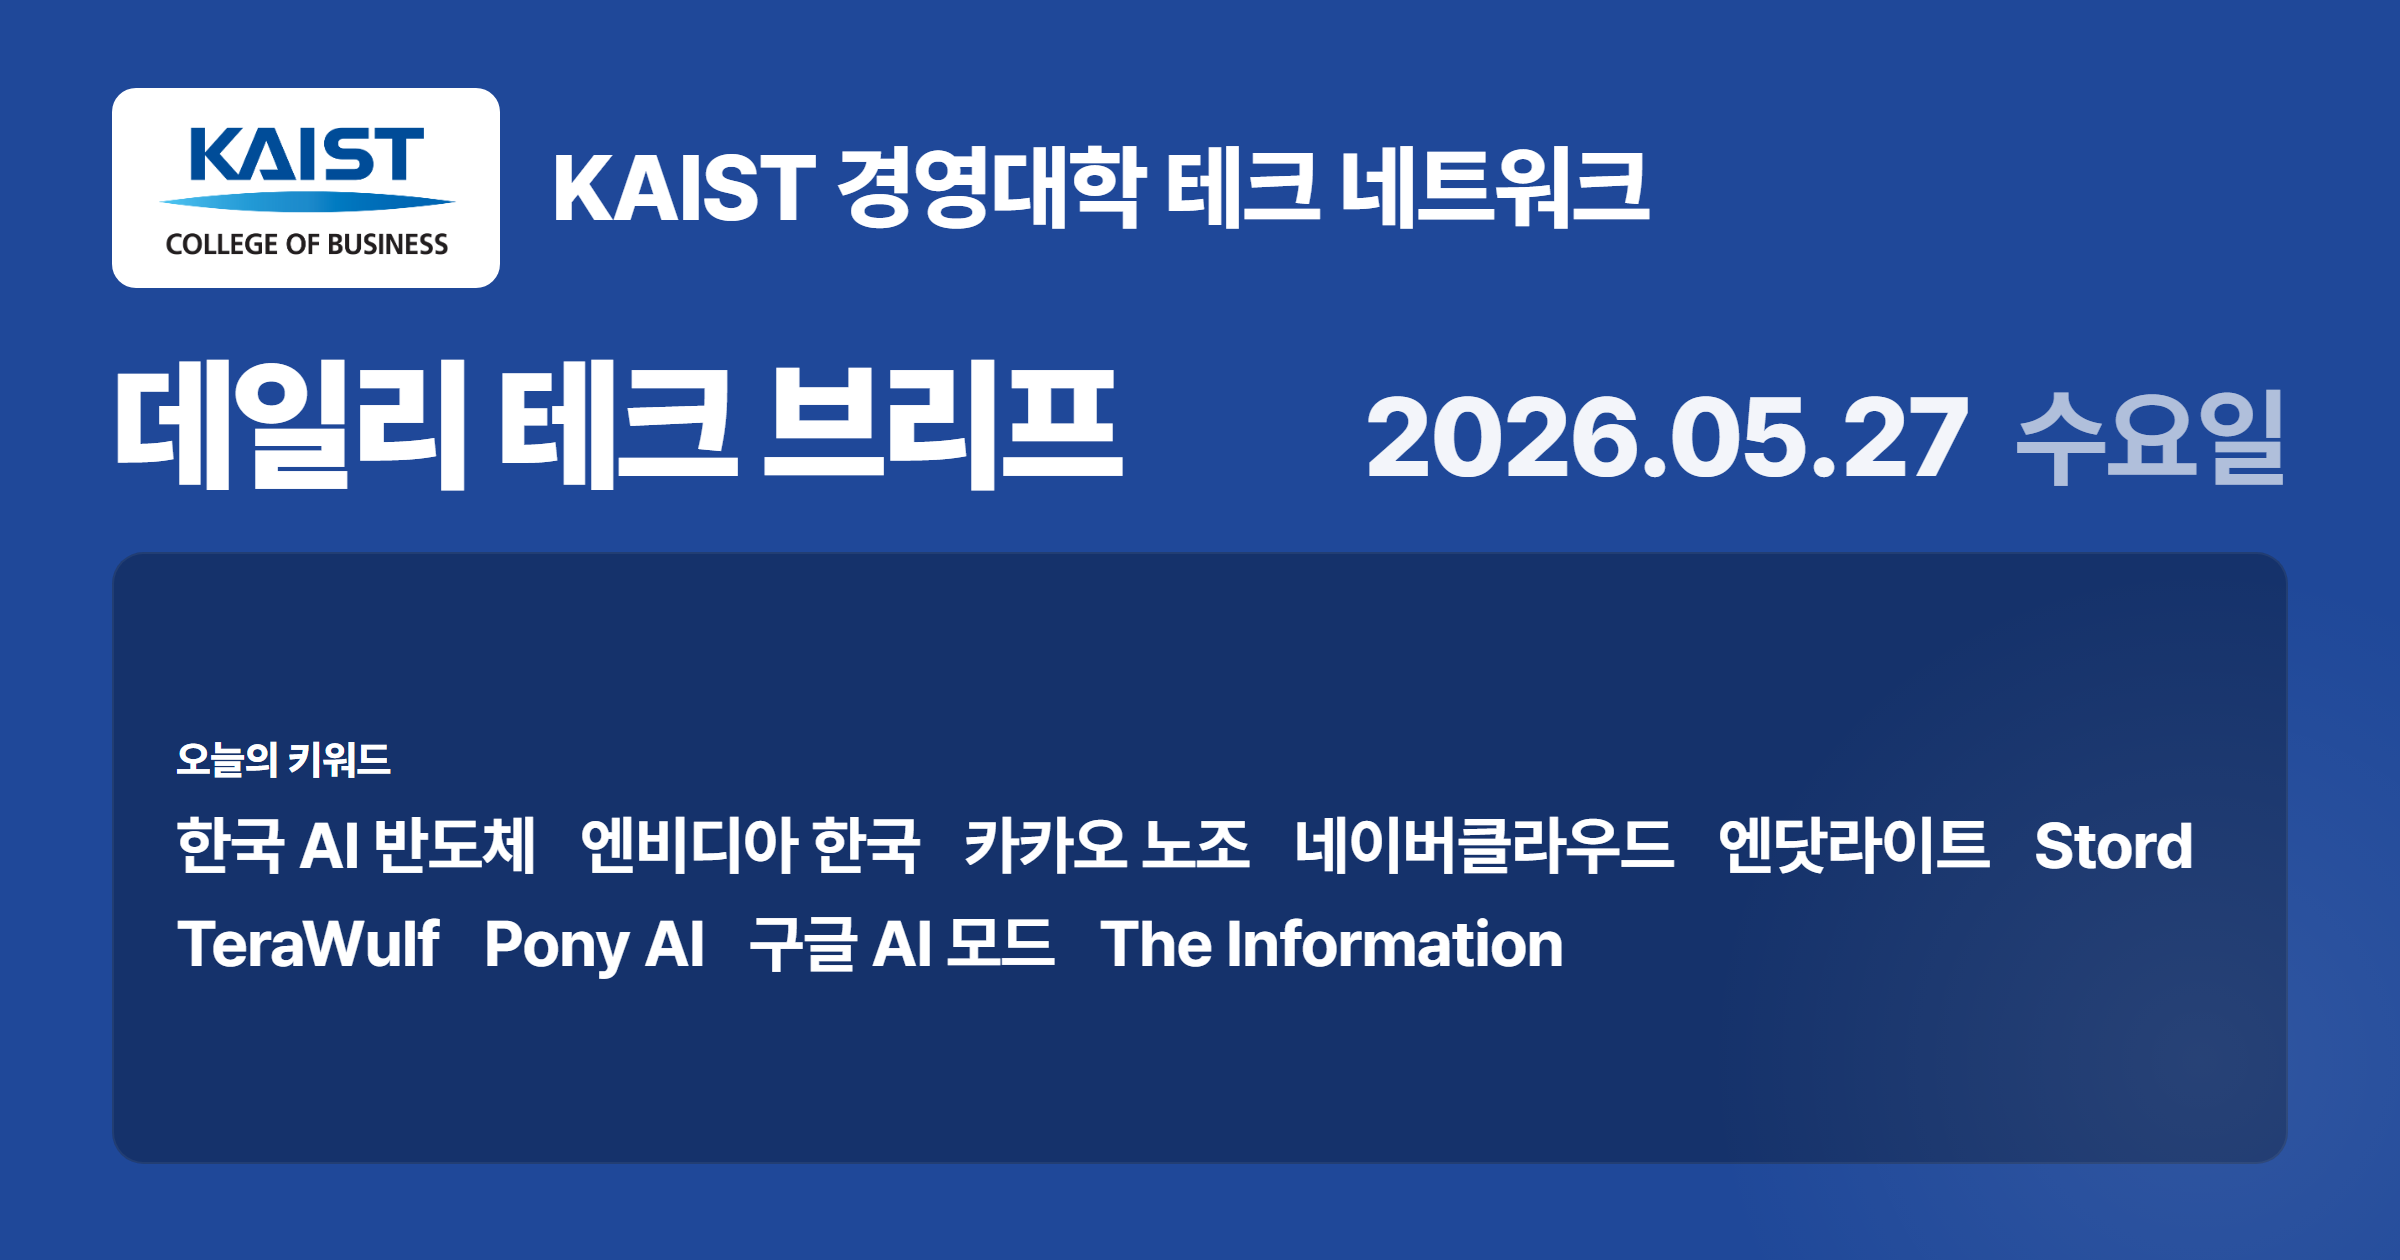
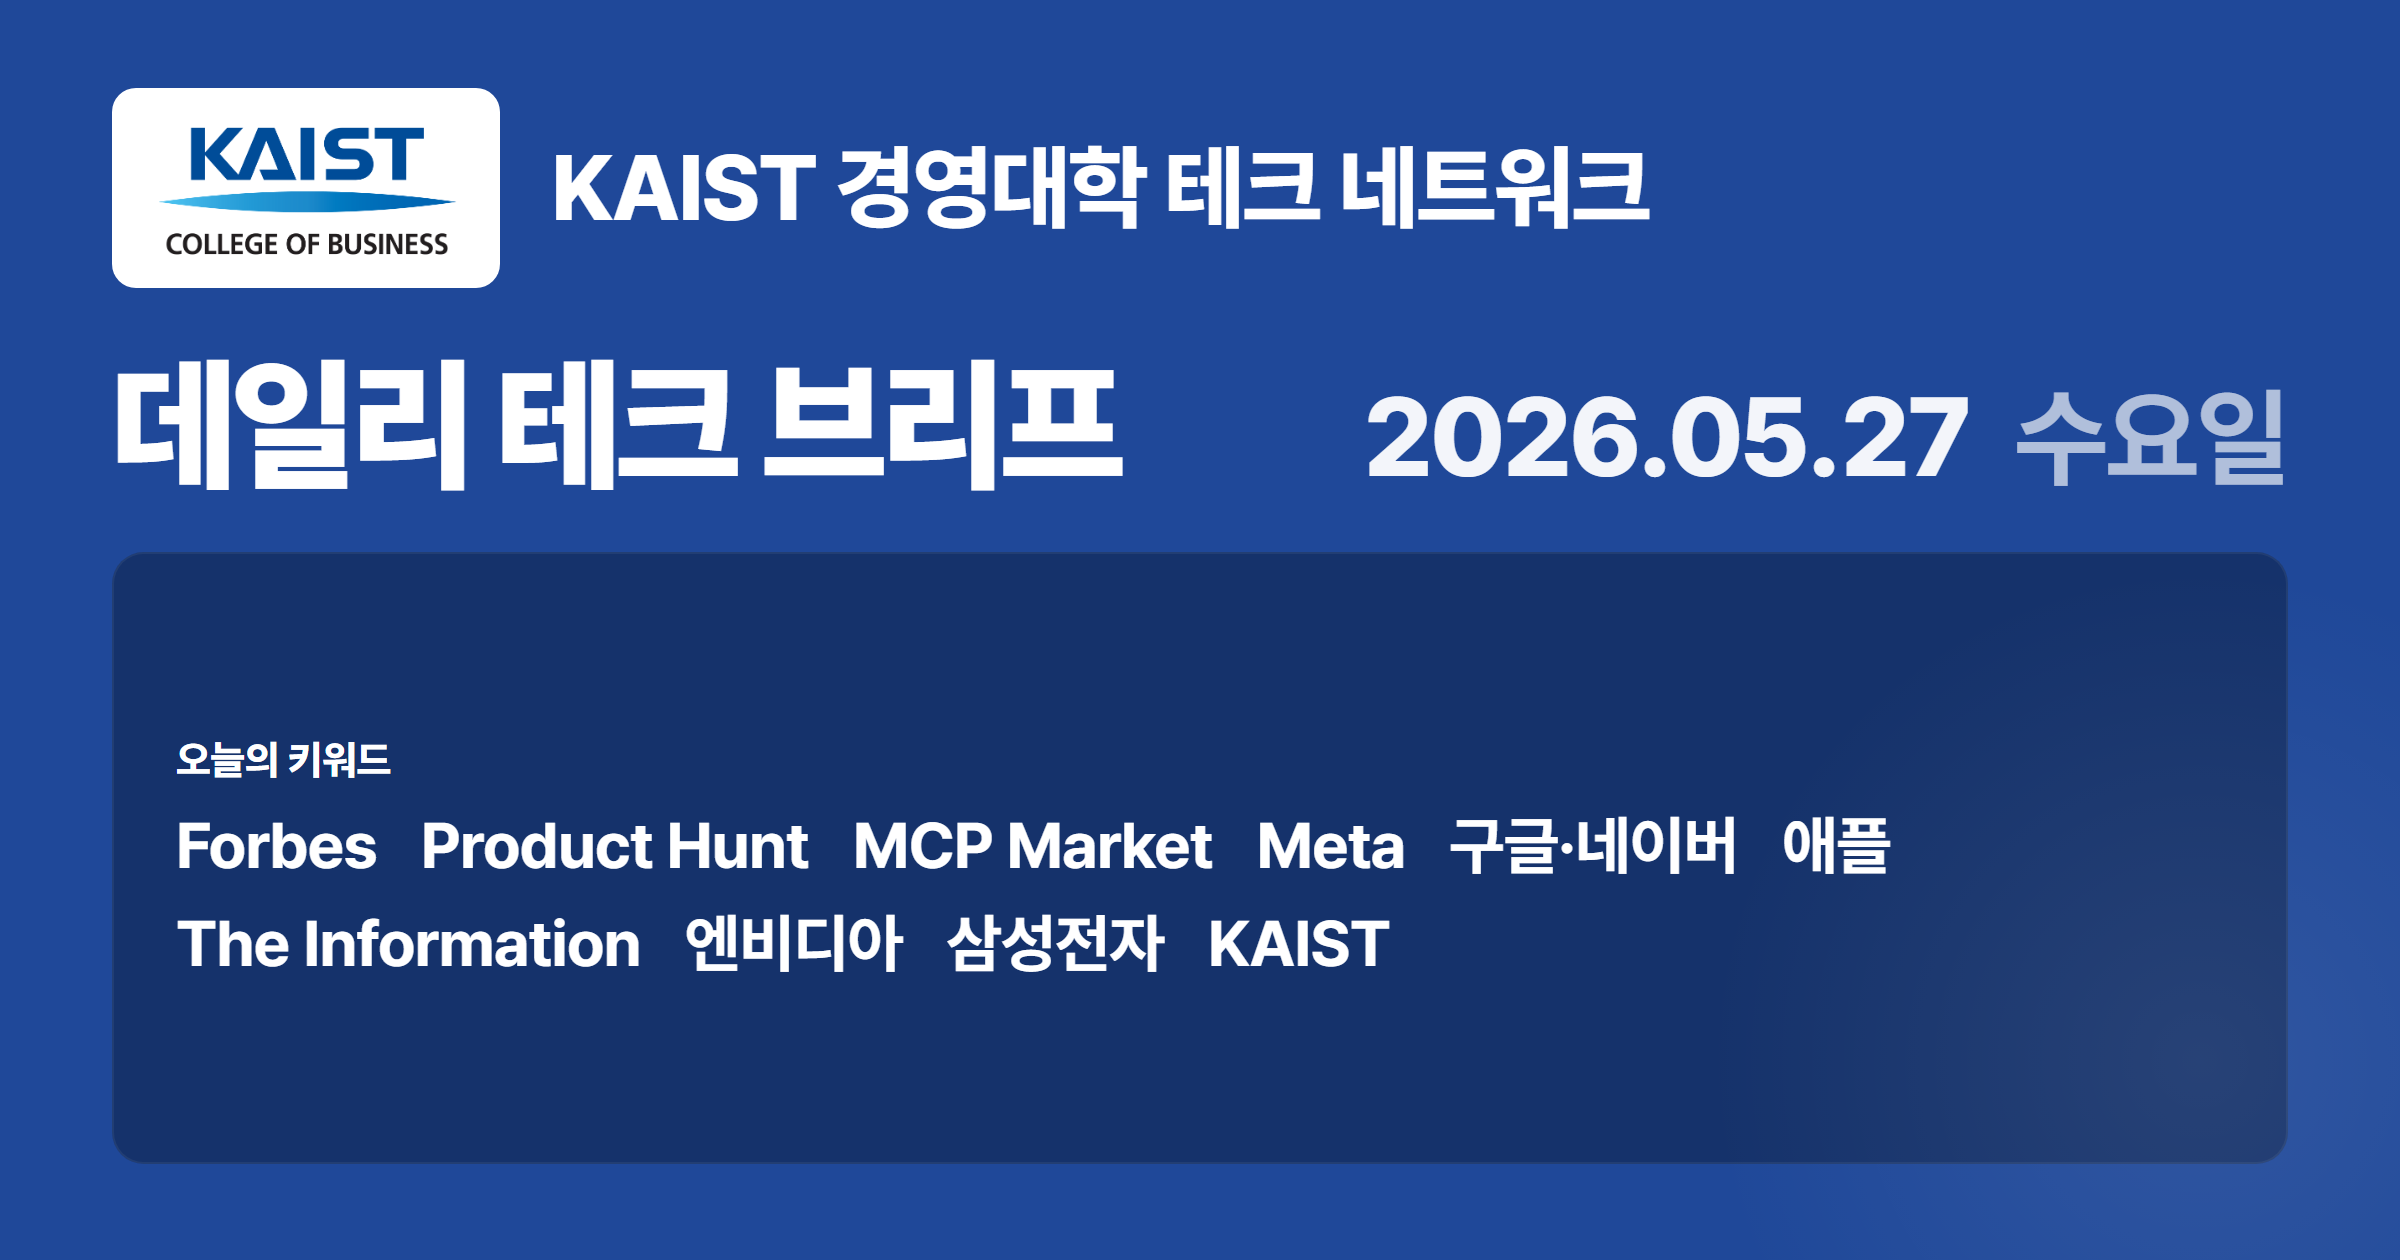
Refresh daily brief: 2026-05-27

Changed region(s): [[0.0625, 0.65, 0.9375, 0.7738]]

diff --git a/date/2026-05-27/index.html b/date/2026-05-27/index.html
@@ -7,7 +7,7 @@
 <title>데일리 테크 브리프 — 2026.05.27 수요일</title>
 <meta property="og:type" content="article">
 <meta property="og:title" content="데일리 테크 브리프 — 2026.05.27 수요일">
-<meta property="og:description" content="01 한국 AI 반도체, 코스피 8000 시나리오 부상 · 02 엔비디아, 한국 6개 그룹과 AI 동맹 예고 · 03 카카오 노조, AI 전환 속 5개 법인 쟁의">
+<meta property="og:description" content="01 Forbes, AI 코딩 도구 20~30% 비용 논쟁 · 02 Product Hunt, AI 코딩 에이전트 562개 비교 · 03 MCP Market, Claude Code 메모리 10위권 부상">
 <meta property="og:image" content="https://kaistbiztech.github.io/dailytechbrief/date/2026-05-27/og.png">
 <meta property="og:image:width" content="1080">
 <meta property="og:image:height" content="1920">
@@ -16,7 +16,7 @@
 <meta property="og:locale" content="ko_KR">
 <meta name="twitter:card" content="summary_large_image">
 <meta name="twitter:title" content="데일리 테크 브리프 — 2026.05.27 수요일">
-<meta name="twitter:description" content="01 한국 AI 반도체, 코스피 8000 시나리오 부상 · 02 엔비디아, 한국 6개 그룹과 AI 동맹 예고 · 03 카카오 노조, AI 전환 속 5개 법인 쟁의">
+<meta name="twitter:description" content="01 Forbes, AI 코딩 도구 20~30% 비용 논쟁 · 02 Product Hunt, AI 코딩 에이전트 562개 비교 · 03 MCP Market, Claude Code 메모리 10위권 부상">
 <meta name="twitter:image" content="https://kaistbiztech.github.io/dailytechbrief/date/2026-05-27/og.png">
 <script>
   /* BASE_PATH는 페이지 JS의 fallback이 location.pathname에서 도출 */

diff --git a/index.html b/index.html
@@ -7,7 +7,7 @@
 <title>데일리 테크 브리프 — 2026.05.27 수요일</title>
 <meta property="og:type" content="article">
 <meta property="og:title" content="데일리 테크 브리프 — 2026.05.27 수요일">
-<meta property="og:description" content="01 한국 AI 반도체, 코스피 8000 시나리오 부상 · 02 엔비디아, 한국 6개 그룹과 AI 동맹 예고 · 03 카카오 노조, AI 전환 속 5개 법인 쟁의">
+<meta property="og:description" content="01 Forbes, AI 코딩 도구 20~30% 비용 논쟁 · 02 Product Hunt, AI 코딩 에이전트 562개 비교 · 03 MCP Market, Claude Code 메모리 10위권 부상">
 <meta property="og:image" content="https://kaistbiztech.github.io/dailytechbrief/date/2026-05-27/og.png">
 <meta property="og:image:width" content="1080">
 <meta property="og:image:height" content="1920">
@@ -16,7 +16,7 @@
 <meta property="og:locale" content="ko_KR">
 <meta name="twitter:card" content="summary_large_image">
 <meta name="twitter:title" content="데일리 테크 브리프 — 2026.05.27 수요일">
-<meta name="twitter:description" content="01 한국 AI 반도체, 코스피 8000 시나리오 부상 · 02 엔비디아, 한국 6개 그룹과 AI 동맹 예고 · 03 카카오 노조, AI 전환 속 5개 법인 쟁의">
+<meta name="twitter:description" content="01 Forbes, AI 코딩 도구 20~30% 비용 논쟁 · 02 Product Hunt, AI 코딩 에이전트 562개 비교 · 03 MCP Market, Claude Code 메모리 10위권 부상">
 <meta name="twitter:image" content="https://kaistbiztech.github.io/dailytechbrief/date/2026-05-27/og.png">
 <script>
   /* BASE_PATH는 페이지 JS의 fallback이 location.pathname에서 도출 */
